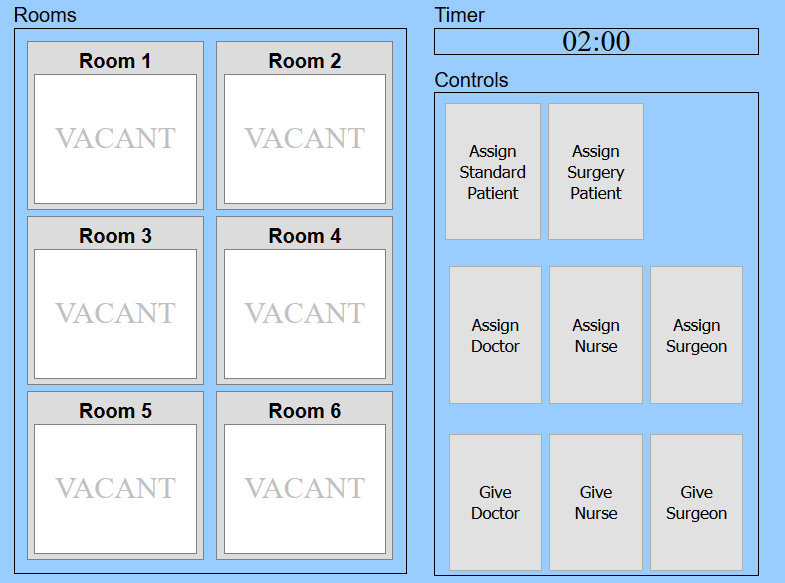
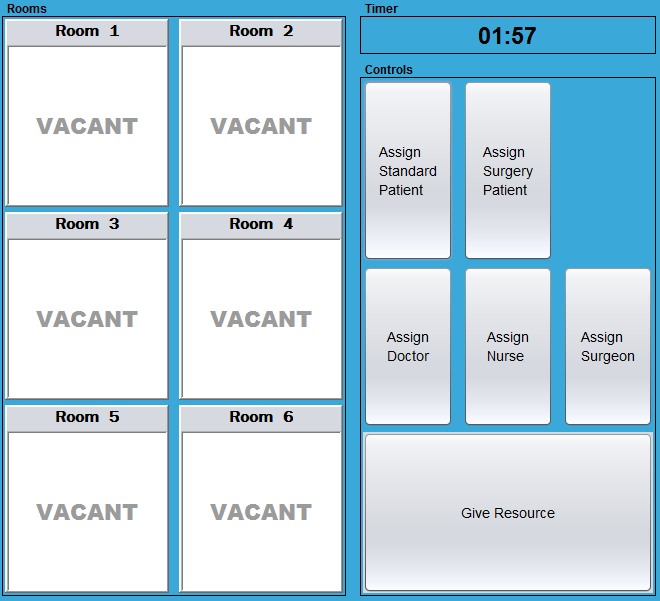
Updating training page screenshots in progress
Adding updated screenshots to training page, to better reflect the way
the game will actually appear to the user.

Note: the changes to window.js are just changing the pixel width and
height of the displayed images to prevent the new ones from stretching.

diff --git a/WebPage/Javascript/window.js b/WebPage/Javascript/window.js
@@ -3,8 +3,8 @@ var text = [
 "<b>Objective:</b></br></br>You are the Bayview Medical Clinic manager who must schedule</br>doctors and hospital staff to treat as many patients as possible.",
 "<b>How to Play:</b></br></br>There are two types of patients:</br>&bull; Standard</br>&bull; Surgery</br></br>The standard patient requires a doctor and a nurse in order to begin recovering,</br>and a surgery patient requires a surgeon and a nurse to begin recovering.</br></br>As soon as a patient is assigned to a room and has both resources assigned,</br>a timer will begin to count down to their full recovery.",
 "You will also have help! The neighboring medical clinic,</br>OneLife Medical Center, is willing to share their staff with you.</br>Both you, and the Center, can share resources by sending and</br>requesting particular staff to help save the greatest number of patients.</br></br><img src=\"./Resources/sharing.png\" style=\"width:330px;height:150px;\">",
-"<b>Interface:</b></br></br>The main parts of the interface are:</br>Your panel, OneLife Medical's panel,</br>the patient rooms, the timer, and your controls.</br></br><img src=\"./Resources/interface.png\" style=\"width:600px;height:319px;\">",
-"To treat patients, you need to assign them to a room with the correct hospital staff.</br>Your hospital only has 6 rooms. Once a staff member is assigned to a room,</br>they cannot be unassigned until the patient has recovered.</br></br><img src=\"./Resources/assigning.png\" style=\"width:600px;height:450px;\">",
+"<b>Interface:</b></br></br>The main parts of the interface are:</br>Your panel, OneLife Medical's panel,</br>the patient rooms, the timer, and your controls.</br></br><img src=\"./Resources/interface.png\" style=\"width:600px;height:400px;\">",
+"To treat patients, you need to assign them to a room with the correct hospital staff.</br>Your hospital only has 6 rooms. Once a staff member is assigned to a room,</br>they cannot be unassigned until the patient has recovered.</br></br><img src=\"./Resources/assigning.png\" style=\"width:600px;height:546px;\">",
 "Within the waiting room, each circle represents a patient.</br>The color of the circles reflects the number of patients waiting:</br>Green: 1-2</br>Yellow: 2-4</br>Red: 5-6</br></br><img src=\"./Resources/stats.png\" style=\"width:200px;height:450px;\"></br></br>The maximum number of patients each hospital can have waiting is 6.</br>Once the waiting room is full, no new patients can enter the waiting room.</br>Your available staff will be displayed in the Bayview Medical panel.</br>You can see OneLife's available staff and queue color as well.</br>For each patient treated in <b>EITHER</b> hospital, your score is increased by 1.",
 "After assigning all necessary staff members</br>to a patient, their treatment will begin.</br>After 60 seconds, their treament will be complete.</br>From here, you have to collect your resources by</br>clicking on the room before you use them again.</br></br><img src=\"./Resources/collect.png\" style=\"width:350px;height:450px;\">",
 "<b>The Game:</b></br></br>You will play two games.</br>The first game will be for practice and</br>will allow you to get used to the controls.</br>This game will last 2 minutes.</br> You will then begin the full game.</br>The full game will last 8 minutes and a</br>final score will be shown at the end.</br></br>Please contact the proctor if you have any further questions."
